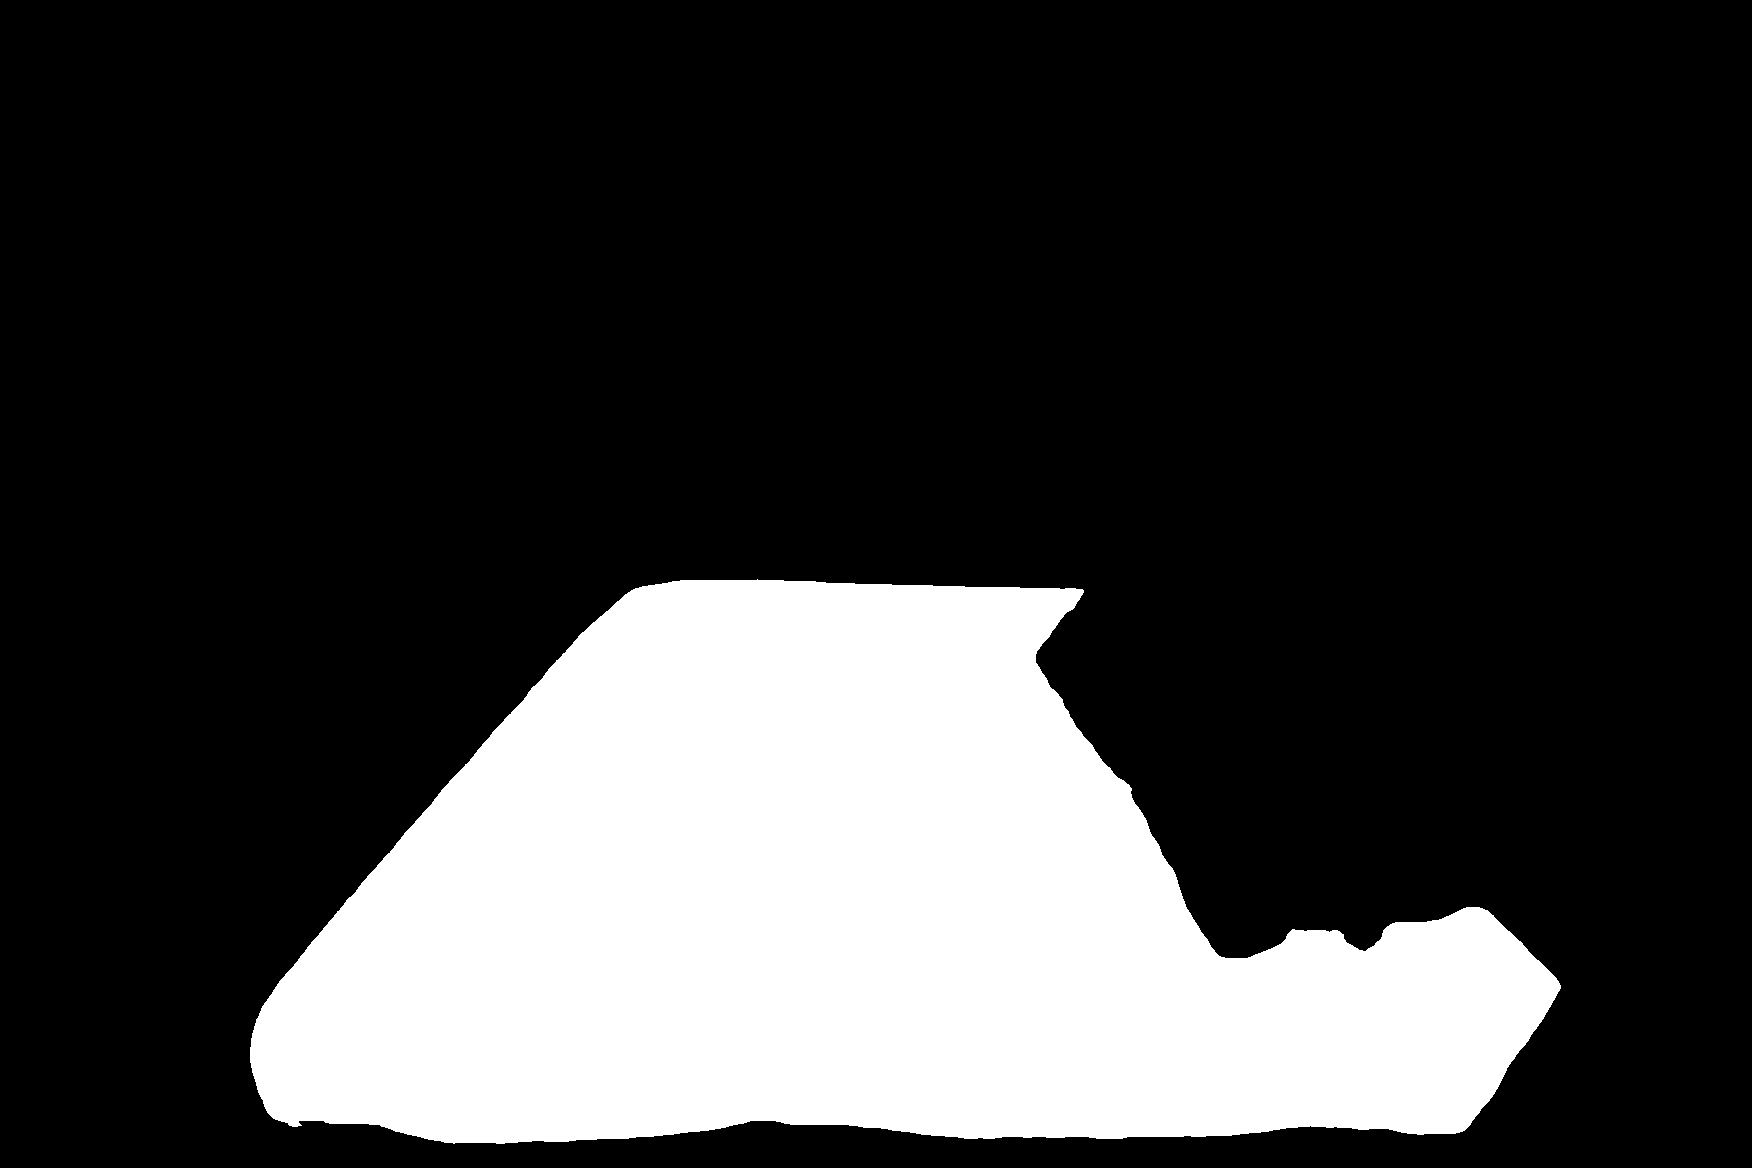
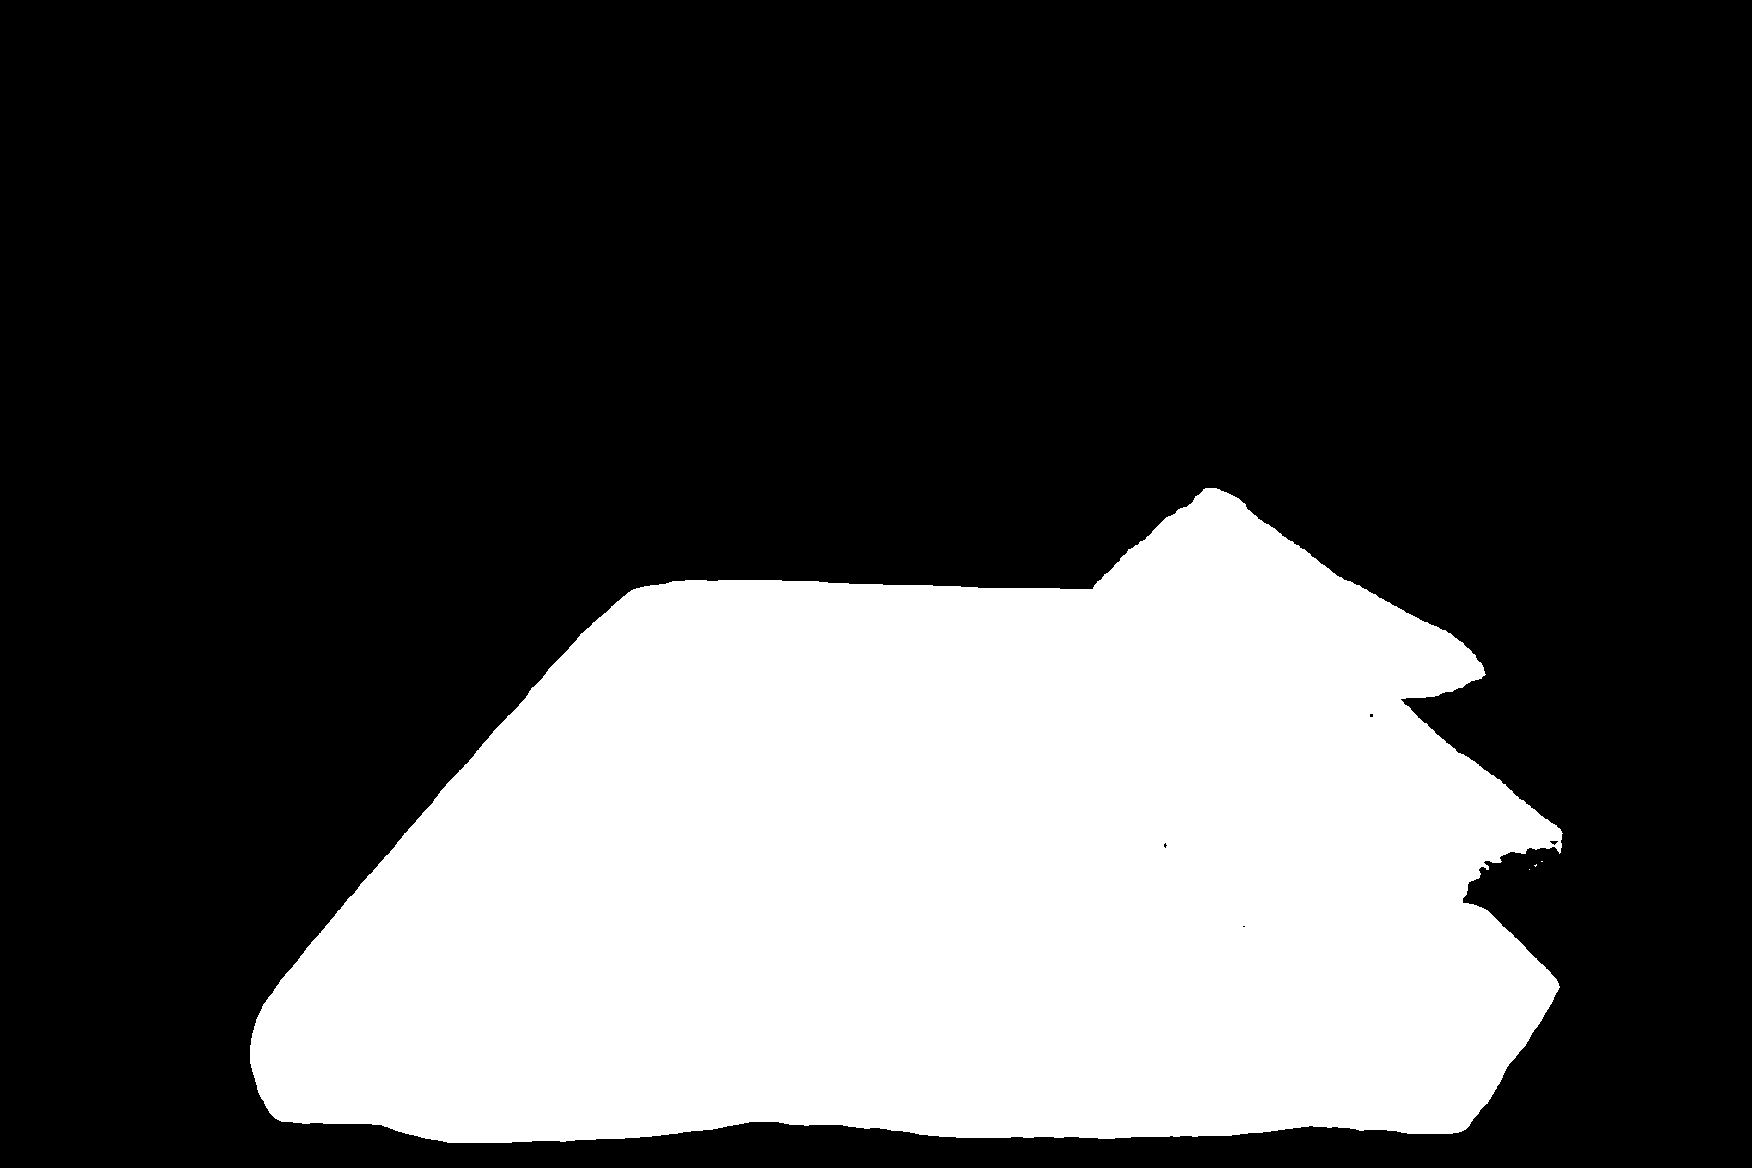
new outputs

Changed region(s): [[0.5856, 0.4007, 0.8938, 0.8322]]

diff --git a/02_Select_Target_Instance/01_select_target_instance.py b/02_Select_Target_Instance/01_select_target_instance.py
@@ -188,7 +188,7 @@ def main() -> None:
     parser.add_argument("--sam3-checkpoint", default=None)
     parser.add_argument("--sam3-bpe-path", default=None)
     parser.add_argument("--sam3-device", default=get_default_sam3_device())
-    parser.add_argument("--sam3-confidence-threshold", type=float, default=0.5)
+    parser.add_argument("--sam3-confidence-threshold", type=float, default=0.1)
     parser.add_argument("--no-sam3-hf-download", action="store_true")
     args = parser.parse_args()
 
